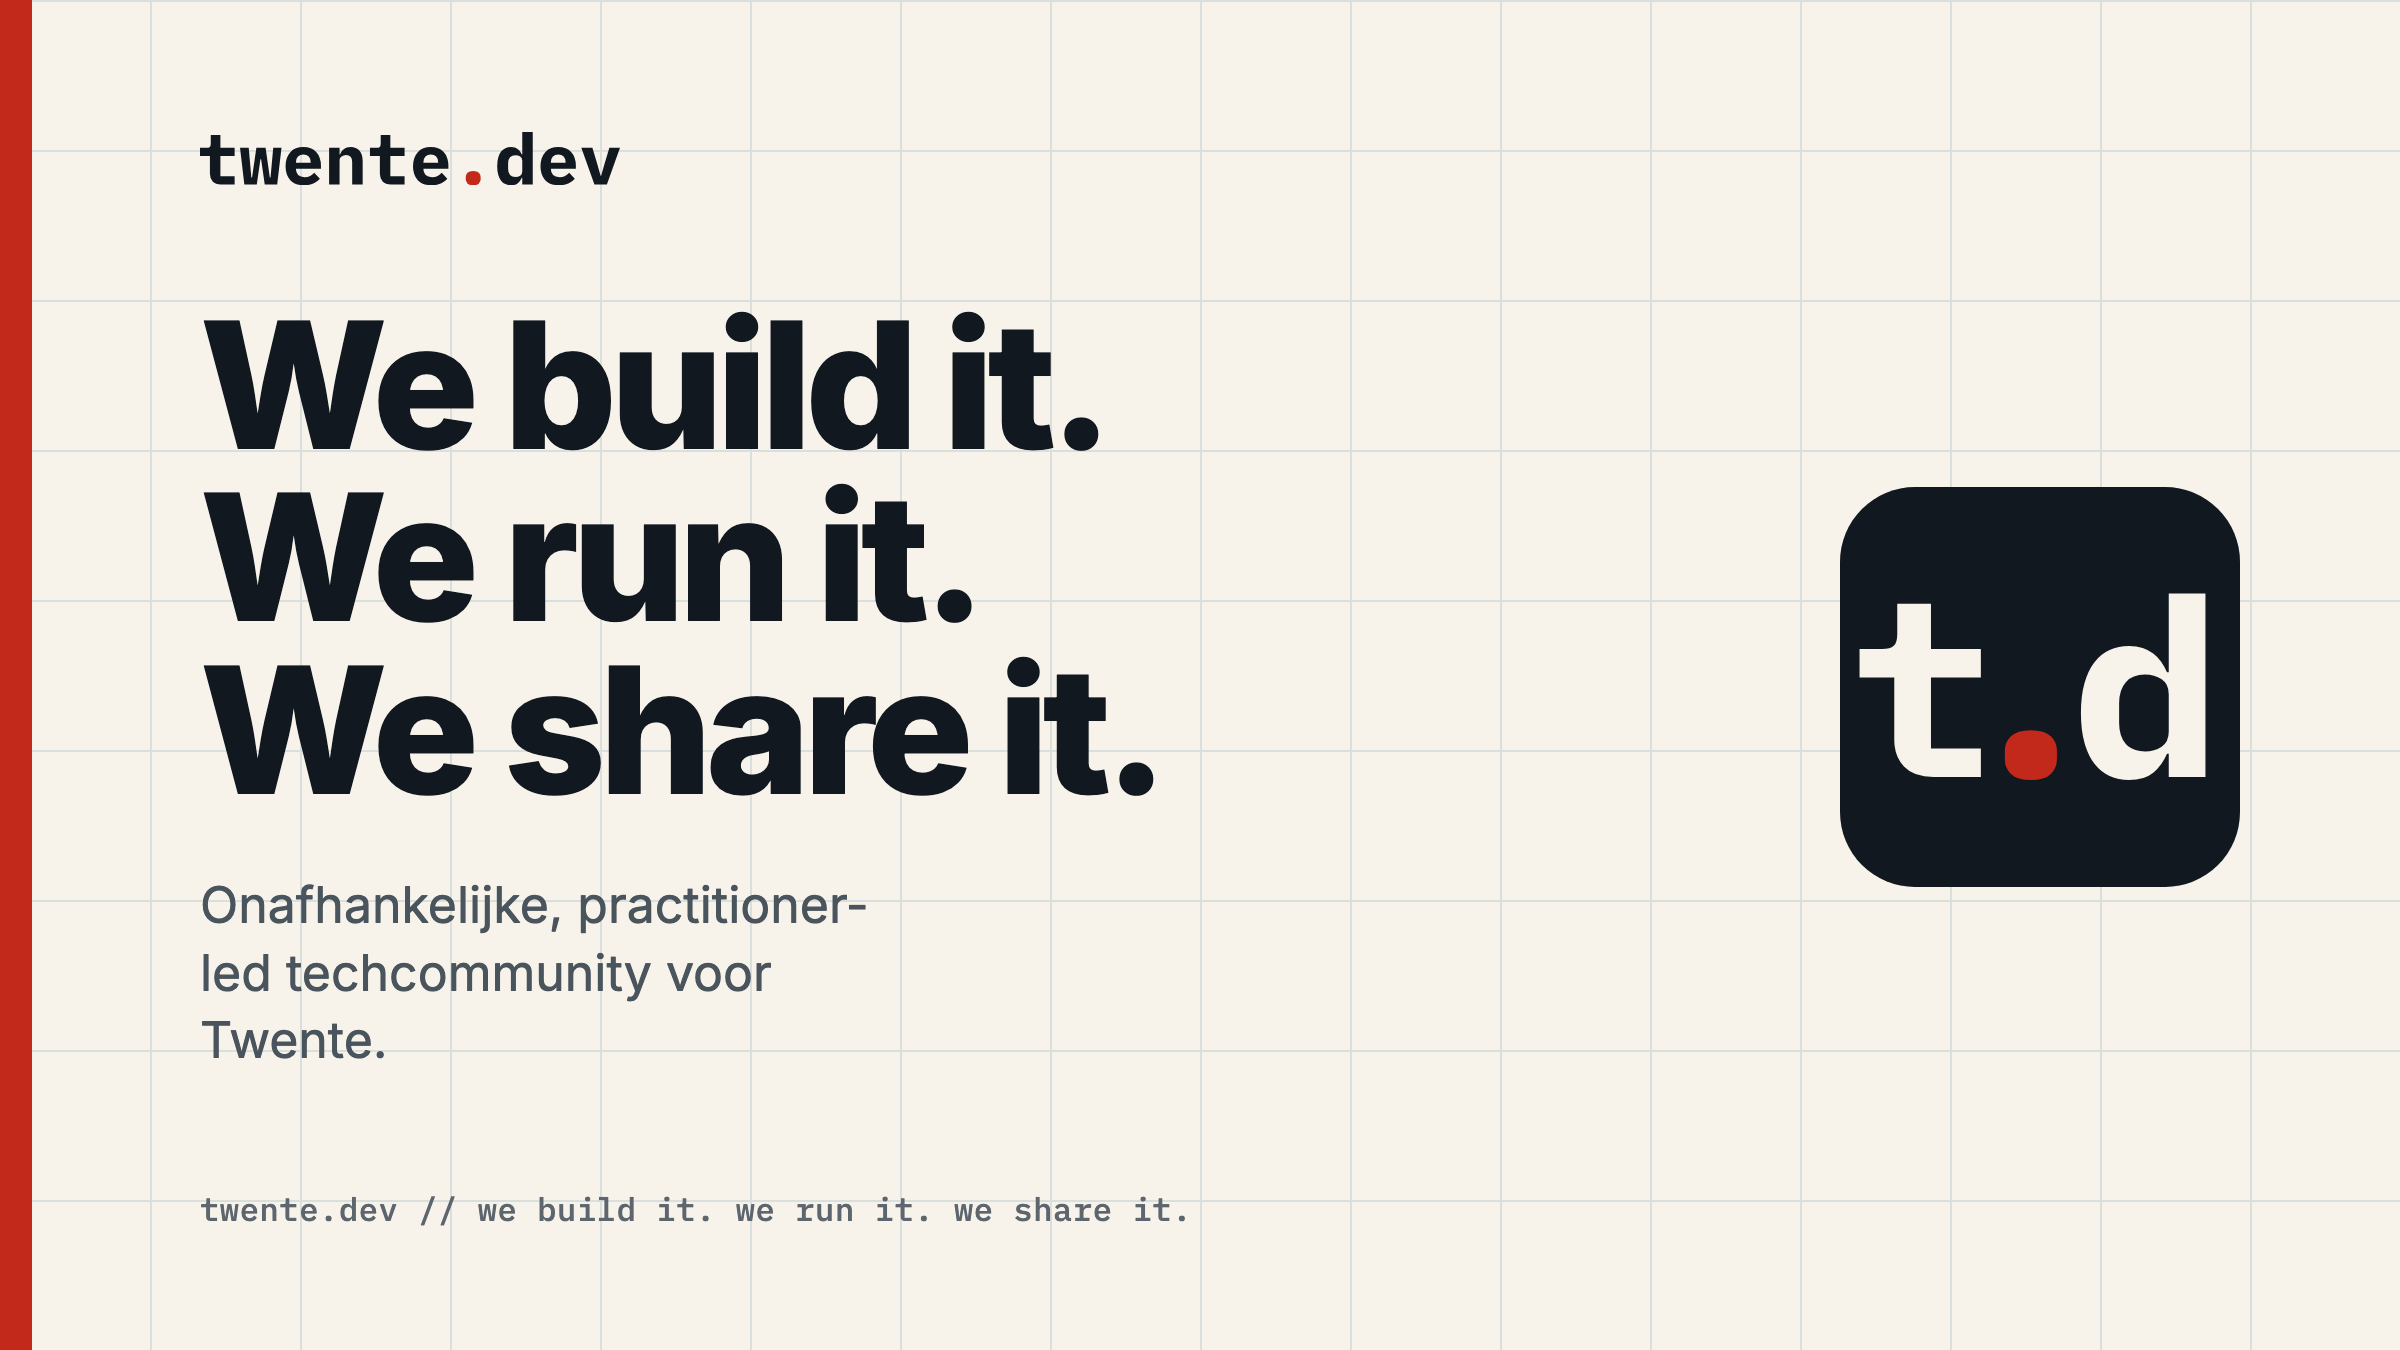
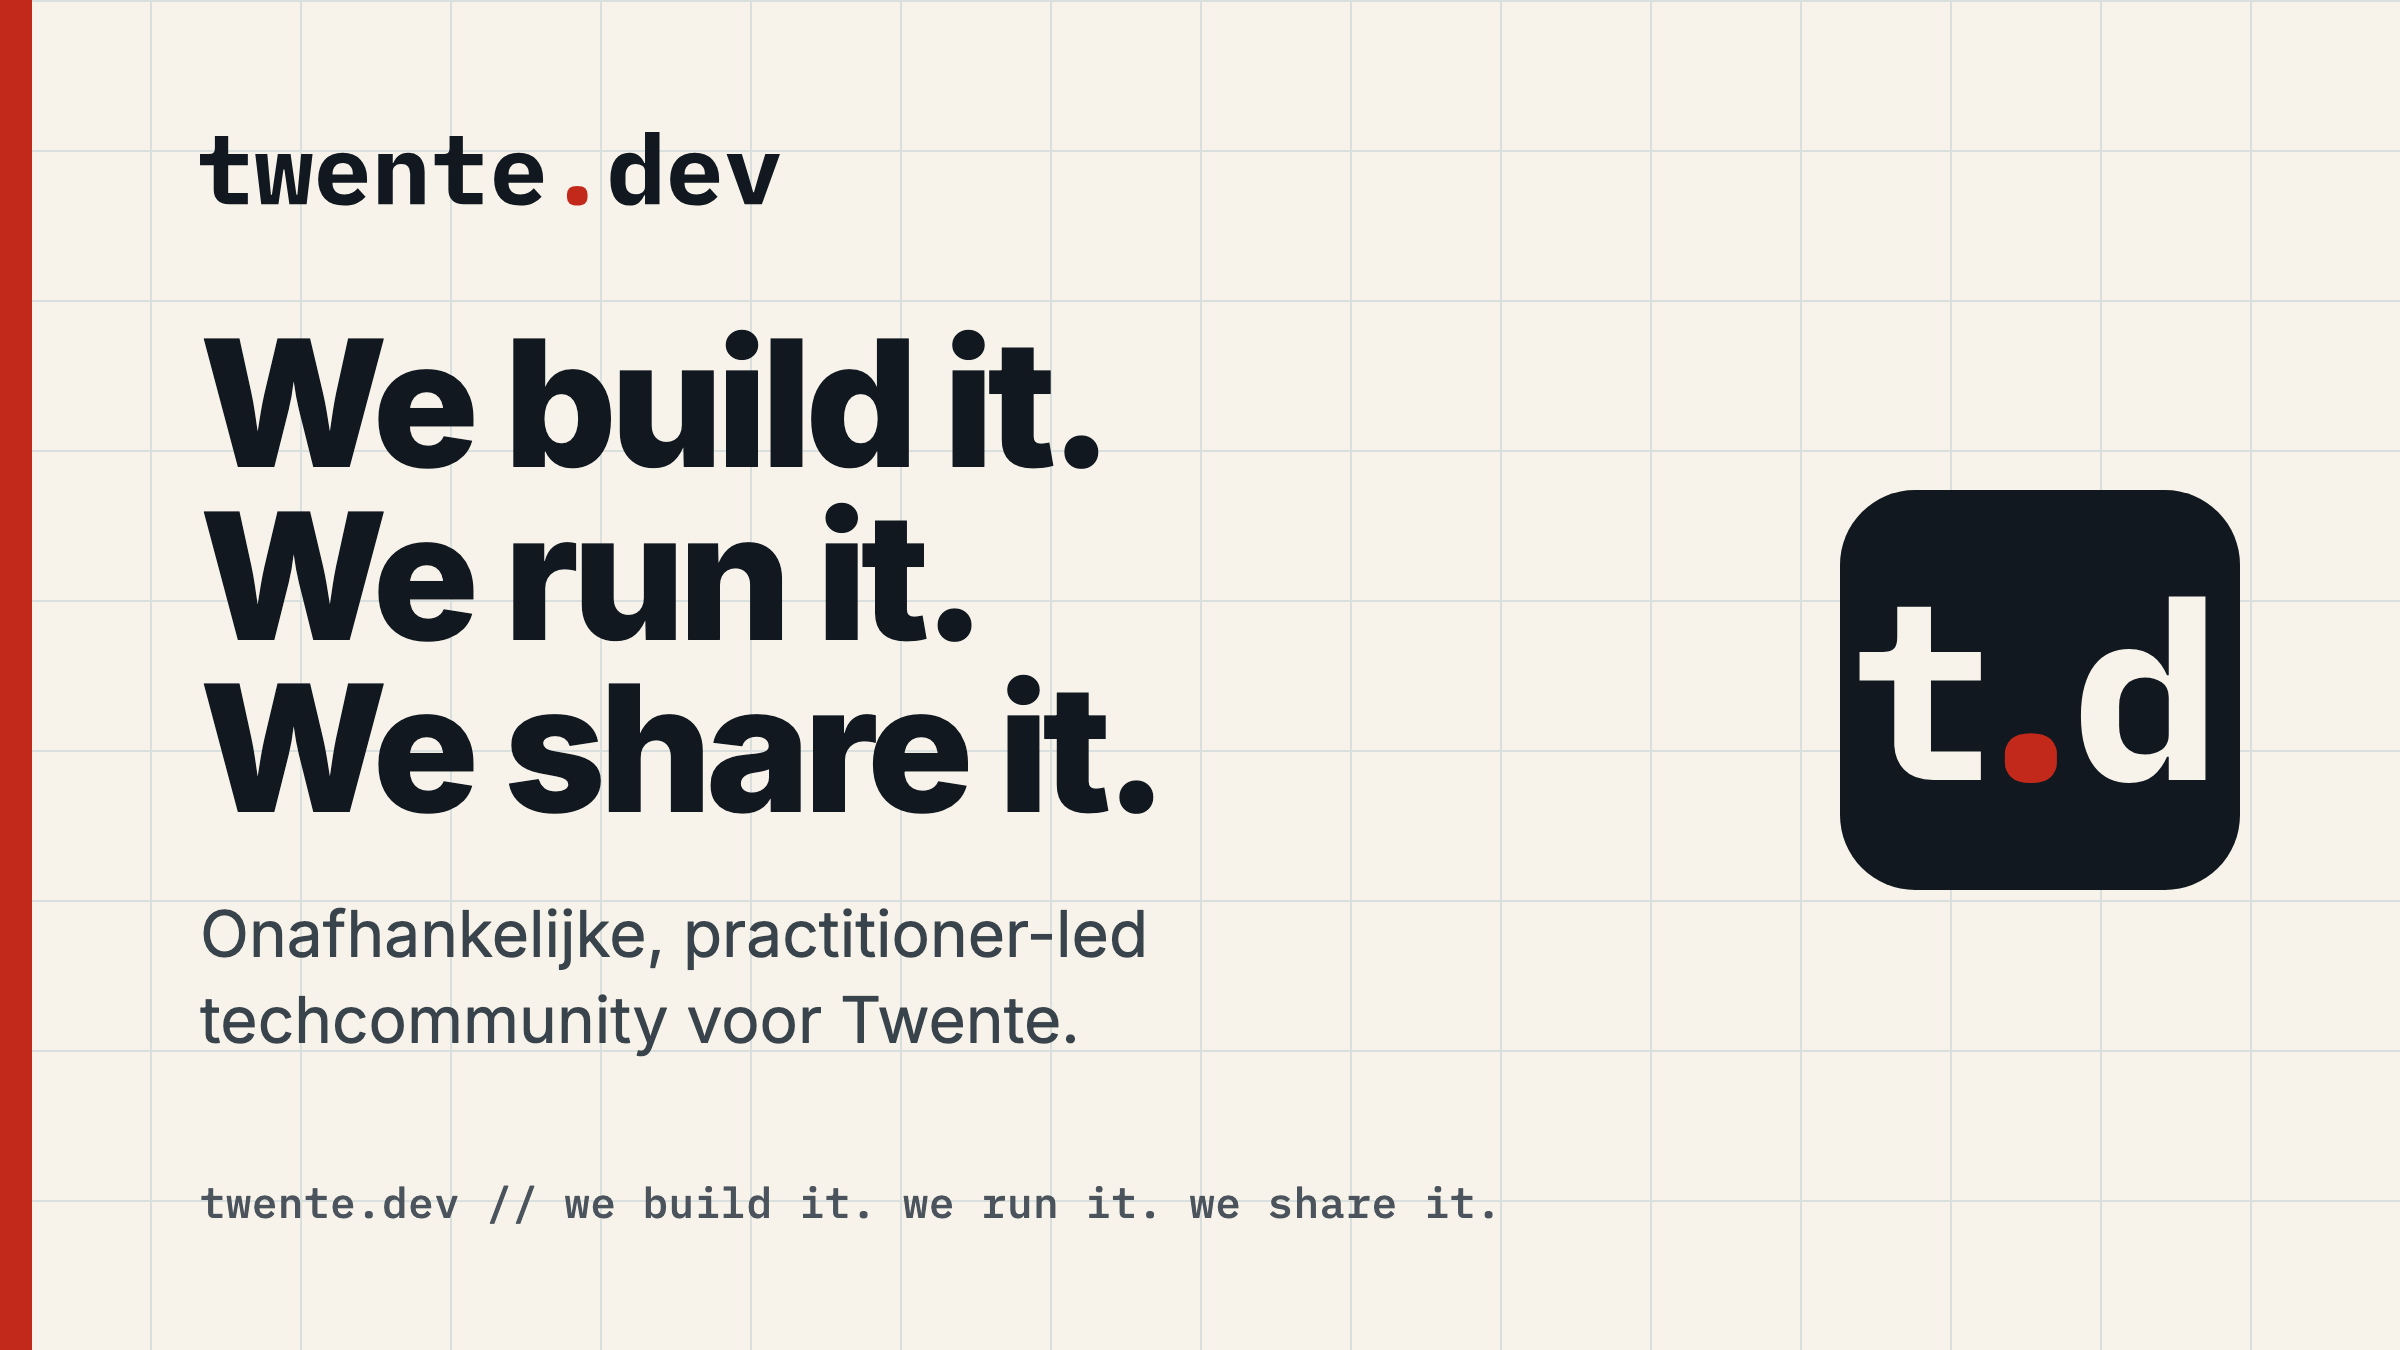
fix(brand): meetup-cover leesbaar op kaartformaat, vrij van Meetups eigen knoppen
Lockup, ondertitel, datumblok en onderregel vergroot en het grijs donkerder,
omdat Meetup de cover op ongeveer een derde van de exportbreedte toont. Het
datumblok blijft tussen de deel- en hartknop rechtsboven en de organisatorknop
rechtsonder.

diff --git a/docs/brand/templates/cover-16x9.html b/docs/brand/templates/cover-16x9.html
@@ -15,8 +15,8 @@
         --red: #c3291b;
         --paper: #f7f3ea;
         --grey: #d9dfdc;
-        --muted: #4a545c;
-        --subtle: #5d666e;
+        --muted: #39434b;
+        --subtle: #4b545c;
         --sans: 'Inter', -apple-system, system-ui, sans-serif;
         --mono: 'IBM Plex Mono', ui-monospace, Menlo, Consolas, monospace;
       }
@@ -91,7 +91,7 @@
       }
 
       .wordmark {
-        width: 420px;
+        width: 580px;
         height: auto;
         display: block;
       }
@@ -118,11 +118,11 @@
 
       .sub {
         margin-top: 56px;
-        font-size: 50px;
+        font-size: 64px;
         font-weight: 400;
         line-height: 1.35;
         color: var(--muted);
-        max-width: 22ch;
+        max-width: 27ch;
       }
 
       .mark {
@@ -133,29 +133,29 @@
       }
 
       .card {
-        flex: 0 0 620px;
+        flex: 0 0 820px;
         background: var(--red);
         color: #fff;
-        padding: 56px 64px 64px;
+        padding: 68px 80px 76px;
         font-family: var(--mono);
       }
 
       .card .edition {
-        font-size: 46px;
+        font-size: 60px;
         font-weight: 700;
         letter-spacing: 0.02em;
       }
 
       .card .date {
         margin: 18px 0 14px;
-        font-size: 152px;
+        font-size: 200px;
         font-weight: 700;
         line-height: 1;
         letter-spacing: 0.04em;
       }
 
       .card .where {
-        font-size: 42px;
+        font-size: 56px;
         font-weight: 500;
         text-transform: uppercase;
         letter-spacing: 0.08em;
@@ -163,7 +163,7 @@
 
       .foot {
         font-family: var(--mono);
-        font-size: 32px;
+        font-size: 42px;
         font-weight: 500;
         color: var(--subtle);
         letter-spacing: 0.02em;
@@ -186,10 +186,10 @@
         stroke-width: 2;
       }
       .art.nacht .sub {
-        color: #b4bcc2;
+        color: #c9d1d7;
       }
       .art.nacht .foot {
-        color: #8b949d;
+        color: #a3acb5;
       }
       .art.nacht .dot {
         color: #ea6250;

diff --git a/docs/runbooks/editie-banners.md b/docs/runbooks/editie-banners.md
@@ -73,3 +73,10 @@ compositieregels uit de review van 2026-09-01: op terminal-banners staat de
 lockup gróót rechtsonder met de titelregel erboven, en de separator in
 footer-regels is altijd `//`, nooit een enkele `/` — dus
 `twente.dev // we build it. we run it. we share it.`
+
+Eén maat is specifiek voor de meetup-cover (review 2026-09-04): Meetup legt op de
+event-kaart eigen knoppen over de afbeelding, deel en hart rechtsboven (tot
+ongeveer 23% van de hoogte) en de organisatorknop rechtsonder (vanaf ongeveer
+80%). Het datumblok hoort daar tussenin en groeit alleen binnen die strook. Op
+dezelfde datum zijn lockup, ondertitel, datumblok en onderregel vergroot, omdat
+de kaart in de feed op ongeveer een derde van de exportbreedte getoond wordt.
